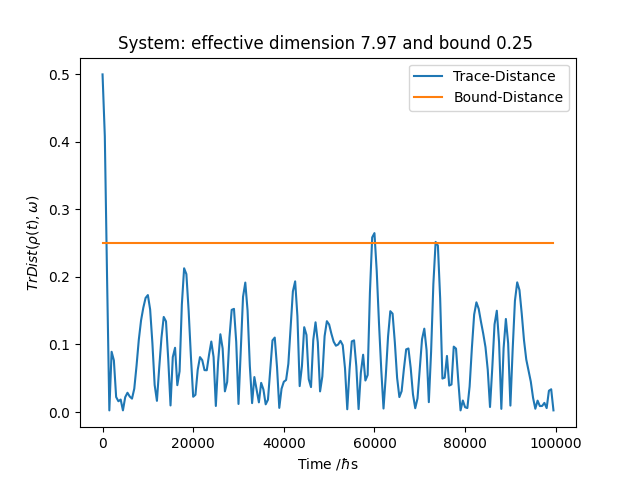
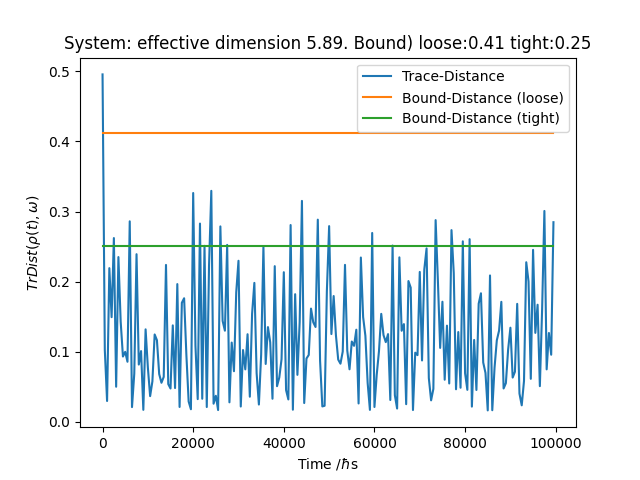
fixed issues and implemented new bound

diff --git a/QuantumLib.py b/QuantumLib.py
@@ -197,31 +197,37 @@ def simulate(energys, eigstates, coef, t_start, t_end, steps, ret_func=lambda x:
     
 def equilibration_analyser_p(energys, eigstates, init_state, start, stop, steps, name, trace=[0], _proc=4):
     
-    fig = plt.figure()
-    ax = fig.add_subplot(1, 1, 1)
-   
     coef = [init_state.overlap(state) for state in eigstates]
+
+    n= len(init_state.dims[0])
+    subsys_trace = trace
+    bath_trace = [ dim for dim in range(n) if dim not in subsys_trace]
                                
-    equilibrated_dens_op = get_equilibrated_dens_op_P(eigstates, coef, len(init_state.dims[0]), proc=_proc)
-    effective_dimension = eff_dim(equilibrated_dens_op)
+    equilibrated_dens_op = get_equilibrated_dens_op_P(eigstates, coef, n, proc=_proc)
     
+    effective_dimension_sys = eff_dim(equilibrated_dens_op)
+    effective_dimension_bath = eff_dim(equilibrated_dens_op.ptrace(bath_trace))
     #now we have the actual effective dimension trace over as can't do it before or messes up
     
-    equilibrated_dens_op = equilibrated_dens_op.ptrace(trace)
+    equilibrated_dens_op = equilibrated_dens_op.ptrace(subsys_trace)
     
-    bound = 0.5*sqrt(2**len(trace)**2/effective_dimension)
-          
+    bound_loose = 0.5*sqrt((2**len(subsys_trace))**2/effective_dimension_sys)
+    bound_tight = 0.5*sqrt(2**len(subsys_trace)/effective_dimension_bath)
+
     trace_dist_compare = lambda state: tracedist(equilibrated_dens_op, state.ptrace(trace))
-    
     trace_distances = simulate(energys, eigstates, coef, start, stop, steps, ret_func=trace_dist_compare, proc=_proc)
     
     times = [start+step*(stop-start)/steps for step in range(steps)]
     
-    bound_line = [bound]*steps
+    bound_line_loose = [bound_loose]*steps
+    bound_line_tight = [bound_tight]*steps
     
+    fig = plt.figure()
+    ax = fig.add_subplot(1, 1, 1)
     ax.plot(times, trace_distances, label="Trace-Distance")
-    ax.plot(times, bound_line, label="Bound-Distance")
-    plt.title(f"System: effective dimension {effective_dimension:.2f} and bound {bound:.2f} ")
+    ax.plot(times, bound_line_loose, label="Bound-Distance (loose)")
+    ax.plot(times, bound_line_tight, label="Bound-Distance (tight)")
+    plt.title(f"System: effective dimension {effective_dimension_sys:.2f}. Bound) loose:{bound_loose:.2f} tight:{bound_tight:.2f}")
     ax.set_xlabel(r"Time /$\hbar$s")
     ax.set_ylabel(r"$TrDist(\rho(t),\omega$)")
     plt.legend()
